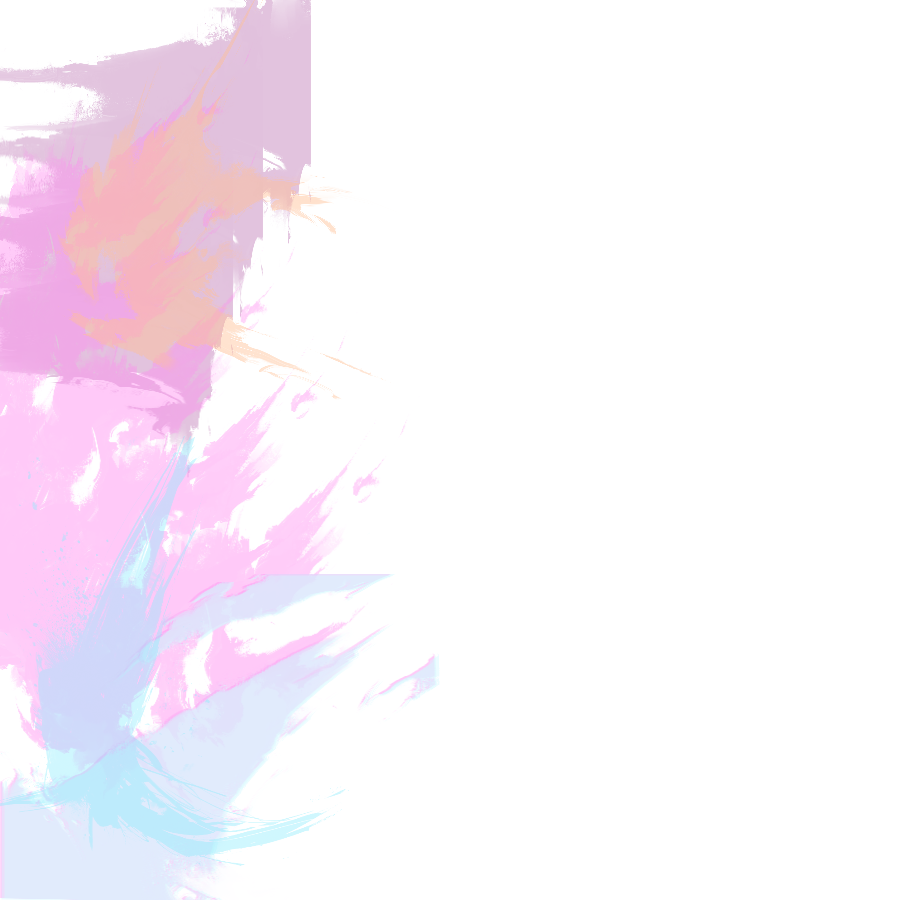
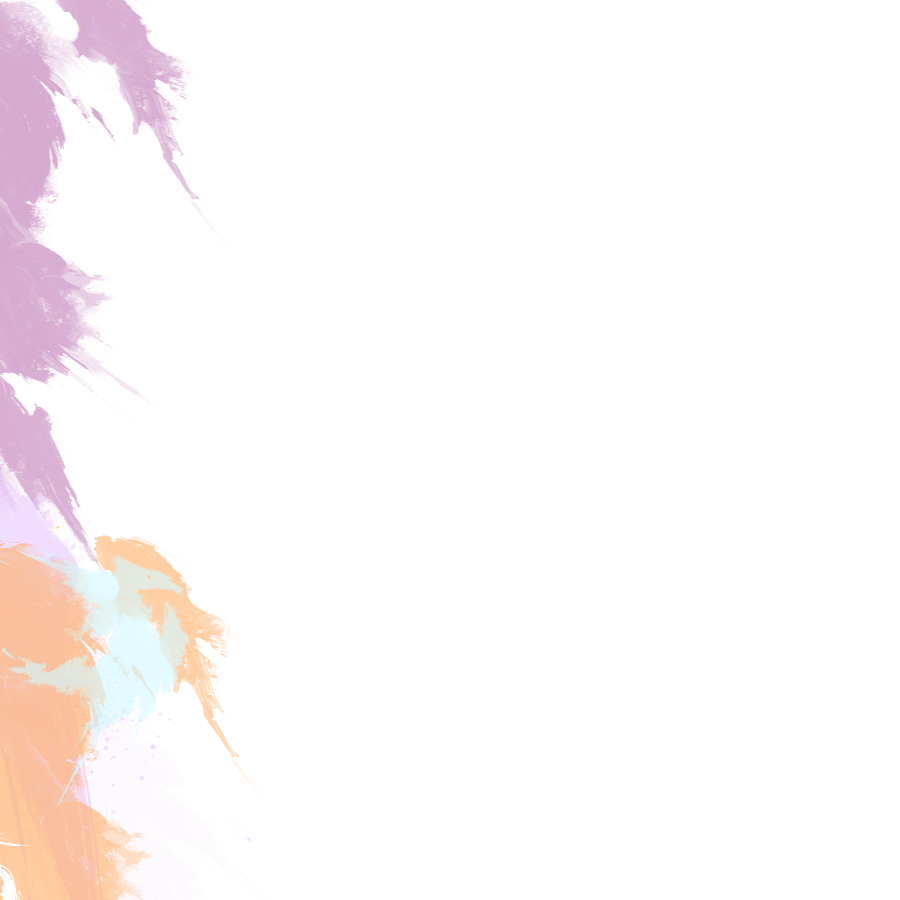
Added files related to the tabs.

Changed region(s): [[0.0, 0.0, 0.4356, 1.0], [0.4356, 0.7156, 0.4978, 0.7778]]

diff --git a/src/presentation/assets/stylesheet.css b/src/presentation/assets/stylesheet.css
@@ -135,5 +135,5 @@
 }
 
 .tab-selected-line {
-	-fx-background-color: -fx-focus-color;
+	-fx-background-color: transparent;
 }

diff --git a/src/presentation/TabController.java b/src/presentation/TabController.java
@@ -4,16 +4,22 @@ import com.jfoenix.controls.JFXTabPane;
 import javafx.event.Event;
 import javafx.event.EventHandler;
 import javafx.fxml.FXML;
+import javafx.fxml.FXMLLoader;
 import javafx.geometry.Insets;
 import javafx.geometry.Side;
+import javafx.scene.Parent;
 import javafx.scene.control.Label;
 import javafx.scene.control.Tab;
 import javafx.scene.effect.DropShadow;
 import javafx.scene.image.Image;
 import javafx.scene.image.ImageView;
+import javafx.scene.layout.AnchorPane;
 import javafx.scene.layout.BorderPane;
 import javafx.scene.paint.Color;
 import javafx.scene.text.TextAlignment;
+
+import java.io.IOException;
+import java.net.URL;
 
 public class TabController {
 
@@ -26,20 +32,38 @@ public class TabController {
     @FXML
     private Tab buildTab;
 
+    @FXML
+    private Tab trainingTab;
+
+    @FXML
+    private Tab masteryTab;
+
+    @FXML
+    private AnchorPane equipmentPane;
+
+    @FXML
+    private AnchorPane buildPane;
+
+    @FXML
+    private AnchorPane trainingPane;
+
+    @FXML
+    private AnchorPane masteryPane;
+
     private double tabWidth = 100.0;
     public static int lastSelectedTabIndex = 0;
 
-    public TabController(){
+    public TabController() {
 
     }
 
     @FXML
-    private void initialize(){
+    private void initialize() {
         setTabContainer();
-        equipmentTab.setStyle("-fx-background-image: url(\"presentation/assets/selectionbackground2.png\")");
+        equipmentTab.setStyle("-fx-background-image: url(\"presentation/assets/selectionbackground.png\")");
     }
 
-    private void setTabContainer(){
+    private void setTabContainer() {
         tabContainer.setSide(Side.LEFT);
         tabContainer.setTabMinWidth(tabWidth);
         tabContainer.setTabMaxWidth(tabWidth);
@@ -48,6 +72,10 @@ public class TabController {
         tabContainer.setRotateGraphic(true);
         setTab(equipmentTab, "Equipment", "presentation/assets/cogsmall.png");
         setTab(buildTab, "Build", "presentation/assets/cogsmall.png");
+        setTab(trainingTab, "Training", "presentation/assets/cogsmall.png");
+        setTab(masteryTab, "Masteries", "presentation/assets/cogsmall.png");
+
+        setAnchorPane(equipmentPane, "equipment_tab.fxml");
     }
 
     private void setTab(Tab tab, String title, String iconPath) {
@@ -62,19 +90,18 @@ public class TabController {
         tabPane.setBottom(setLabel(title));
         tab.setGraphic(tabPane);
         tab.setOnSelectionChanged(replaceBackgroundColorHandler);
-
     }
 
-    private Label setLabel(String title){
+    private Label setLabel(String title) {
         Label label = new Label(title);
         label.setMaxWidth(tabWidth - 20);
-        label.setPadding(new Insets(5,0,0,0));
+        label.setPadding(new Insets(5, 0, 0, 0));
         label.setStyle("-fx-text-fill: white; -fx-font-size: 10pt; -fx-font-weight: bold;");
         DropShadow dropShadow = new DropShadow();
         dropShadow.setRadius(1.5);
         dropShadow.setOffsetX(1.0);
         dropShadow.setOffsetY(1.0);
-        dropShadow.setColor(Color.rgb(0,0,0,0.8));
+        dropShadow.setColor(Color.rgb(0, 0, 0, 0.8));
         label.setTextAlignment(TextAlignment.CENTER);
         return label;
     }
@@ -83,10 +110,26 @@ public class TabController {
         lastSelectedTabIndex = tabContainer.getSelectionModel().getSelectedIndex();
         Tab currentTab = (Tab) event.getTarget();
         if (currentTab.isSelected()) {
-            currentTab.setStyle("-fx-background-image: url(\"presentation/assets/selectionbackground2.png\");");
+            currentTab.setStyle("-fx-background-image: url(\"presentation/assets/selectionbackground.png\");");
         } else {
             currentTab.setStyle("-fx-background-color: -fx-default-tab-color;");
         }
     };
+
+    private void setAnchorPane(AnchorPane pane, String resourceName) {
+        URL resourceURL = this.getClass().getResource(resourceName);
+        if (pane != null && resourceURL != null) {
+            try {
+                Parent contentView = FXMLLoader.load(resourceURL);
+                pane.getChildren().add(contentView);
+                AnchorPane.setTopAnchor(contentView, 0.0);
+                AnchorPane.setBottomAnchor(contentView, 0.0);
+                AnchorPane.setLeftAnchor(contentView, 0.0);
+                AnchorPane.setRightAnchor(contentView, 0.0);
+            } catch (IOException exception) {
+                exception.printStackTrace();
+            }
+        }
+    }
 
 }

diff --git a/src/EquipmentController.java b/src/EquipmentController.java
@@ -1,0 +1,25 @@
+import javafx.fxml.FXML;
+import javafx.scene.image.ImageView;
+
+
+public class EquipmentController {
+
+    @FXML
+    private ImageView heroImage;
+
+    public EquipmentController(){
+
+    }
+
+    @FXML
+    private void initialize() {
+        setHeroImage();
+    }
+
+    private void setHeroImage(){
+        heroImage.setFitHeight(900);
+        heroImage.setFitWidth(280);
+        heroImage.setLayoutX(250.0);
+    }
+
+}

diff --git a/src/presentation/EquipmentButton.java b/src/presentation/EquipmentButton.java
@@ -1,0 +1,7 @@
+package presentation;
+
+
+import javafx.scene.control.Button;
+
+public class EquipmentButton extends Button {
+}
